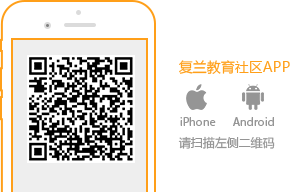
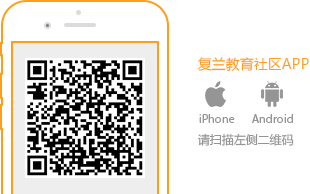
newIndex

diff --git a/code/web/src/main/webapp/static/css/newIndex/css.css b/code/web/src/main/webapp/static/css/newIndex/css.css
@@ -35,12 +35,12 @@ button{cursor: pointer;}
 }
 .index-left .logo{
 	display: block;
-	margin: 33px 0 0 0;
+	margin: 19px 0 0 0;
 }
 .index-left>h1{
 	font-size: 28px;
 	color: #FF9F19;
-	margin-top: 40px; 
+	margin-top: 25px;
 	height: 30px;
 	line-height: 30px;
 }
@@ -83,7 +83,7 @@ button{cursor: pointer;}
 	box-shadow: 0 0 5px #FF9F19 inset;
 }
 .index-focus{
-	margin-top: 44px;
+	margin-top: 45px;
 	height: 305px;
 	position: relative;
 	overflow: hidden;
@@ -256,7 +256,7 @@ button{cursor: pointer;}
 	float: right;
 }
 .login-mk{
-	height: 85px;
+	height: 64px;
 	padding-right: 60px;
 }
 .login-mk .wx-l{
@@ -310,16 +310,16 @@ button{cursor: pointer;}
 }
 .link-mk .mk-s{
 	width:178px;
-	height:255px;
+	height:168px;
 	float: left;
 	transition: all .5s;
 }
 .link-mk .line-thr{
-	height: 103px;
+	height: 68px;
 	width: 1px;
-	background: #FFBB84;
+	background: #dcdcdc;
 	float: left;
-	margin: 75px 0 0 0;
+	margin: 50px 0 0 0;
 }
 .line-acc{
 	height: 1px;
@@ -327,11 +327,11 @@ button{cursor: pointer;}
 	width: 100%;
 }
 .line-acc>div{
-	width: 70px;
-	background: #FFBB84;
+	width: 68px;
+	background: #dcdcdc;
 	height: 1px;
 	float: left;
-	margin: 0 54px;
+	margin: 0 55px;
 }
 .link-mk .mk-ls:hover{
 	background: #FF9F19;
@@ -342,122 +342,181 @@ button{cursor: pointer;}
 	border-color: #fff;
 }
 .link-mk .mk-ls:hover>.mk1-pho{
-	background: url('/static/images/newIndex/find_s1_white.png') no-repeat;
+	background: url('/static/images/newIndex/find_s1_white.png') 3px 15px no-repeat;
 }
 .link-mk .mk-ls:hover>.mk2-pho{
-	background: url('/static/images/newIndex/find_s2_white.png') no-repeat;
+	background: url('/static/images/newIndex/find_s2_white.png') 8px 13px no-repeat;
 }
 .link-mk .mk-ls:hover>.mk3-pho{
-	background: url('/static/images/newIndex/find_s3_white.png') no-repeat;
+	background: url('/static/images/newIndex/find_s3_white.png') 8px 12px no-repeat;
 }
 .link-mk .mk-ls:hover>.mk4-pho{
-	background: url('/static/images/newIndex/find_s4_white.png') 9px 0 no-repeat;
+	background: url('/static/images/newIndex/find_s4_white.png') 15px 16px no-repeat;
 }
 .link-mk .mk-ls:hover>.mk5-pho{
-	background: url('/static/images/newIndex/find_s5_white.png') no-repeat;
+	background: url('/static/images/newIndex/find_s5_white.png') 4px 13px no-repeat;
 }
 .link-mk .mk-ls:hover>.mk6-pho{
-	background: url('/static/images/newIndex/find_s6_white.png') 5px 0 no-repeat;
+	background: url('/static/images/newIndex/find_s6_white.png') 6px 13px no-repeat;
 }
 .link-mk .mk-ls:hover>.mk7-pho{
-	background: url('/static/images/newIndex/find_s7_white.png') 6px 0 no-repeat;
+	background: url('/static/images/newIndex/find_s7_white.png') 9px 12px no-repeat;
 }
 .link-mk .mk-ls:hover>.mk8-pho{
-	background: url('/static/images/newIndex/find_s8_white.png') 4px 0 no-repeat;
+	background: url('/static/images/newIndex/find_s8_white.png') 15px 11px no-repeat;
 }
 .mk-s .mk1-pho{
-	background: url('/static/images/newIndex/find_s1_green.png')no-repeat;
-	margin:41px auto 0; 
+	background: url('/static/images/newIndex/find_s1_green.png') 3px 15px no-repeat;
+	margin:10px auto 0;
 	width: 59px;
 	height: 60px;
 }
 .mk-s .mk2-pho{
-	background: url('/static/images/newIndex/find_s2_green.png')no-repeat;
-	margin:41px auto 0; 
+	background: url('/static/images/newIndex/find_s2_green.png') 8px 13px no-repeat;
+	margin:10px auto 0;
 	width: 62px;
 	height: 60px;
 }
 .mk-s .mk3-pho{
-	background: url('/static/images/newIndex/find_s3_green.png')no-repeat;
-	margin:41px auto 0; 
+	background: url('/static/images/newIndex/find_s3_green.png') 8px 12px no-repeat;
+	margin:10px auto 0;
 	width: 60px;
 	height: 60px;
 }
 .mk-s .mk4-pho{
-	background: url('/static/images/newIndex/find_s4_green.png') 9px 0 no-repeat;
-	margin:41px auto 0; 
+	background: url('/static/images/newIndex/find_s4_green.png') 15px 16px no-repeat;
+	margin:10px auto 0;
 	width: 77px;
 	height: 60px;
 }
 .mk-s .mk5-pho{
-	background: url('/static/images/newIndex/find_s5_green.png')no-repeat;
-	margin:41px auto 0; 
+	background: url('/static/images/newIndex/find_s5_green.png') 4px 13px no-repeat;
+	margin:10px auto 0;
 	width: 61px;
 	height: 62px;
 }
 .mk-s .mk6-pho{
-	background: url('/static/images/newIndex/find_s6_green.png') 5px 0 no-repeat;
-	margin:41px auto 0; 
+	background: url('/static/images/newIndex/find_s6_green.png') 6px 13px no-repeat;
+	margin:10px auto 0;
 	width: 60px;
 	height: 60px;
 }
 .mk-s .mk7-pho{
-	background: url('/static/images/newIndex/find_s7_green.png') 6px 0 no-repeat;
-	margin:41px auto 0; 
+	background: url('/static/images/newIndex/find_s7_green.png') 9px 12px no-repeat;
+	margin:10px auto 0;
 	width: 60px;
 	height: 60px;
 }
 .mk-s .mk8-pho{
-	background: url('/static/images/newIndex/find_s8_green.png') 4px 0 no-repeat;
-	margin:41px auto 0; 
+	background: url('/static/images/newIndex/find_s8_green.png') 15px 11px no-repeat;
+	margin:10px auto 0;
 	width: 60px;
 	height: 60px;
 }
 .mk-name{
-	margin: 18px 0 16px;
 	text-align: center;
+	margin-bottom: 6px;
 }
 .mk-name span{
-	padding: 0 13px;
+	padding: 0 36px;
 	display: inline-block;
 	height: 38px;
 	line-height: 38px;
 	font-size: 19px;
 	color: #000;
-	font-weight: bold; 
-	border-top: 1px solid #222;
-	border-bottom: 1px solid #222;
+	font-weight: bold;
+	border-bottom: 1px solid #666;
 }
 .mk-intro{
 	text-align: center;
-	line-height: 20px;
+	line-height: 17px;
 	color: #777;
 	font-size: 12px;
 }
+.ivideo{
+	height: 146px;
+	background: url("/static/images/newIndex/iv_bg.png") no-repeat;
+	border-bottom: 1px solid #dcdcdc;
+	border-top: 1px solid #dcdcdc;
+}
+.ivideo ul{
+	width: 572px;
+	float: right;
+	padding: 6px 24px;
+}
+.ivideo li{
+	float: right;
+	margin:14px 0 0 5px;
+	width: 65px;
+	height: 45px;
+	position: relative;
+}
+.ivideo li>div{
+	width: 100%;
+	height: 100%;
+	background: rgba(0,0,0,0.2);
+	transition: all .3s;
+}
+.ivideo li a{
+	position: absolute;
+	display: inline-block;
+	width: 21px;
+	height: 21px;
+	border-radius: 100%;
+	background: url("/static/images/newIndex/iv_play.png");
+	top:11px;
+	left:20px;
+	opacity: 0.8;
+	transition: all .3s;
+	cursor: pointer;
+}
+.ivideo li:hover>div{
+	display: none;
+}
+.ivideo li:hover>a{
+	opacity: 1;
+	box-shadow: 0 0 6px cyan;
+}
+
+.ivideo .li1{background: url("/static/images/newIndex/iv1.png")}
+.ivideo .li2{background: url("/static/images/newIndex/iv2.png")}
+.ivideo .li3{background: url("/static/images/newIndex/iv3.png")}
+.ivideo .li4{background: url("/static/images/newIndex/iv4.png")}
+.ivideo .li5{background: url("/static/images/newIndex/iv5.png")}
+.ivideo .li6{background: url("/static/images/newIndex/iv6.png")}
+.ivideo .li7{background: url("/static/images/newIndex/iv7.png");margin-left: 20px !important;}
+.ivideo .li8{background: url("/static/images/newIndex/iv8.png")}
+.ivideo .li9{background: url("/static/images/newIndex/iv9.png")}
+.ivideo .li10{background: url("/static/images/newIndex/iv10.png")}
+.ivideo .li11{background: url("/static/images/newIndex/iv11.png")}
+.ivideo .li12{background: url("/static/images/newIndex/iv12.png")}
+.ivideo .li13{background: url("/static/images/newIndex/iv13.png")}
+.ivideo .li14{background: url("/static/images/newIndex/iv14.png")}
+.ivideo .li15{background: url("/static/images/newIndex/iv15.png")}
 .d-photo{
 	width: 718px;
-	height: 248px;
+	height: 268px;
 	overflow: hidden;
 	position: relative;
 	float: left;
 }
 .ul-photo{
 	width: 5000px;
-	height: 248px;
+	height: 268px;
 	position: absolute;
 	top: 0;
 }
 .ul-photo li{
 	float: left;
 	width: 718px;
-	height: 248px;
+	height: 268px;
 	position: relative;
     cursor: pointer;
 }
 .ul-photo li>img{
 	float: left;
-	width: 491px;
-	height: 248px;
+	width: 466px;
+	height: 268px;
 }
 .ul-photo li span{
 	display: inline-block;
@@ -487,8 +546,8 @@ button{cursor: pointer;}
 	padding-right: 20px;
 }
 .photo-text{
-	width: 226px;
-	height: 248px;
+	width: 251px;
+	height: 268px;
 	float: right;
 	text-align: center;
 }
@@ -511,7 +570,7 @@ button{cursor: pointer;}
 .photo-btn{
 	position: absolute;
 	bottom: 0;
-	left: 407px;
+	left: 382px;
 	width: 84px;
 	height: 43px;
 }

diff --git a/code/web/src/main/webapp/static/css/forum/forum.css b/code/web/src/main/webapp/static/css/forum/forum.css
@@ -5557,7 +5557,7 @@ pre {
     cursor: pointer;
 }
 .photolist i:hover{
-    background: url("/static/images/forum/play_031.png") no-repeat;;
+    background: url("/static/images/forum/play_031.png") no-repeat;
 }
 .mr0{
     margin-right: 0 !important;
